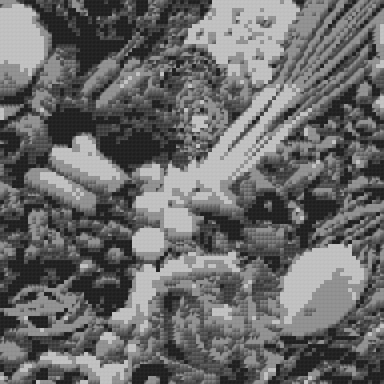
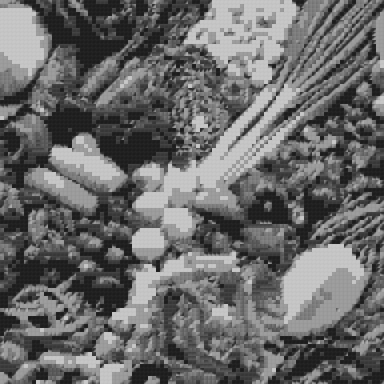
Almost done and working !! + Another surprise is coming !!

diff --git a/app.py b/app.py
@@ -18,22 +18,31 @@ bw = st.number_input("Block Width", min_value=1, value=4, step=1)
 cs = st.number_input("Codebook Size", min_value=2, value=16, step=1)
 
 compressbtn = st.button("Compress")
+
+cmp_img = st.file_uploader("Upload compressed image", type=["npy"])
+codebook = st.file_uploader("Upload codebook ", type=["npy"])
+meta_data = st.file_uploader("Upload meta data ", type=["txt"])
 decompressbtn = st.button("Decompress")
 
 if compressbtn and file:
 
     ratio = comp.compress(file, bh, bw, cs)
+    st.success(f"Compressed Successfully !! \n")
     st.success(
-        f"Compressed Successfully !! \n"
+
         f"Original size : {ratio[0]}  \n"
         f"Compressed size : {ratio[1]}  \n"
         f"Compression Ratio : {ratio[2]}"
     )
 
-if decompressbtn:
-    if os.path.exists("decompressed.png"):
-        comp.decompress()
-        st.image(Image.open("decompressed.png"), caption="Decompressed", width=200)
-        st.success("Decompression Finished")
-    else:
-        st.warning("No compressed image found. Please compress first")
+if decompressbtn and codebook and cmp_img and meta_data:
+
+    comp.decompress(codebook, cmp_img, meta_data)
+    st.image(Image.open("C:\\Users\Fatma\PycharmProjects\DataCompression\VecCmp\images\decompressed_image.png"), caption="Decompressed", width=200)
+    st.success("Decompression Finished !!")
+
+    #if os.path.exists("decompressed.png"):
+     #   comp.decompress()
+
+    #else:
+        #st.warning("No compressed image found. Please compress first")

diff --git a/VectorQuantization.py b/VectorQuantization.py
@@ -125,17 +125,18 @@ def compress(image,bh ,bw,cs):
         f.write(f"{imgH} {imgW} {blockHeight} {blockWidth} {padH} {padW}\n")
 
     return [originalSize, compressedSize, compressionRatio]
-def decompress():
+def decompress(codebookPath ,compressedImagePath , metadataPath):
 
-    codebookPath = input("Enter the codebook path: ")
+    #codebookPath = input("Enter the codebook path: ")
     codebook = np.load(codebookPath)
-    compressedImagePath = input("Enter the compressed image path: ")
+    #compressedImagePath = input("Enter the compressed image path: ")
     compressedImage = np.load(compressedImagePath)
-    metadataPath = input("Enter the compressed image path: ")
+    #metadataPath = input("Enter the meta data path: ")
 
 
-    with open(metadataPath, "r") as f:
-        imgH, imgW, blockHeight, blockWidth, padH , padW = f.readline().split();
+    #with open(metadataPath, "r") as f:
+    content = metadataPath.read().decode()
+    imgH, imgW, blockHeight, blockWidth, padH , padW = content.split();
 
     imgH =int(imgH)
     imgW = int(imgW)
@@ -152,6 +153,6 @@ def decompress():
             i_block += 1
 
     img=Image.fromarray(np.uint8(reImage))
-    img.save("images/decompressed_image.png")
+    img.save("C:\\Users\Fatma\PycharmProjects\DataCompression\VecCmp\images\decompressed_image.png")
 
     return None
